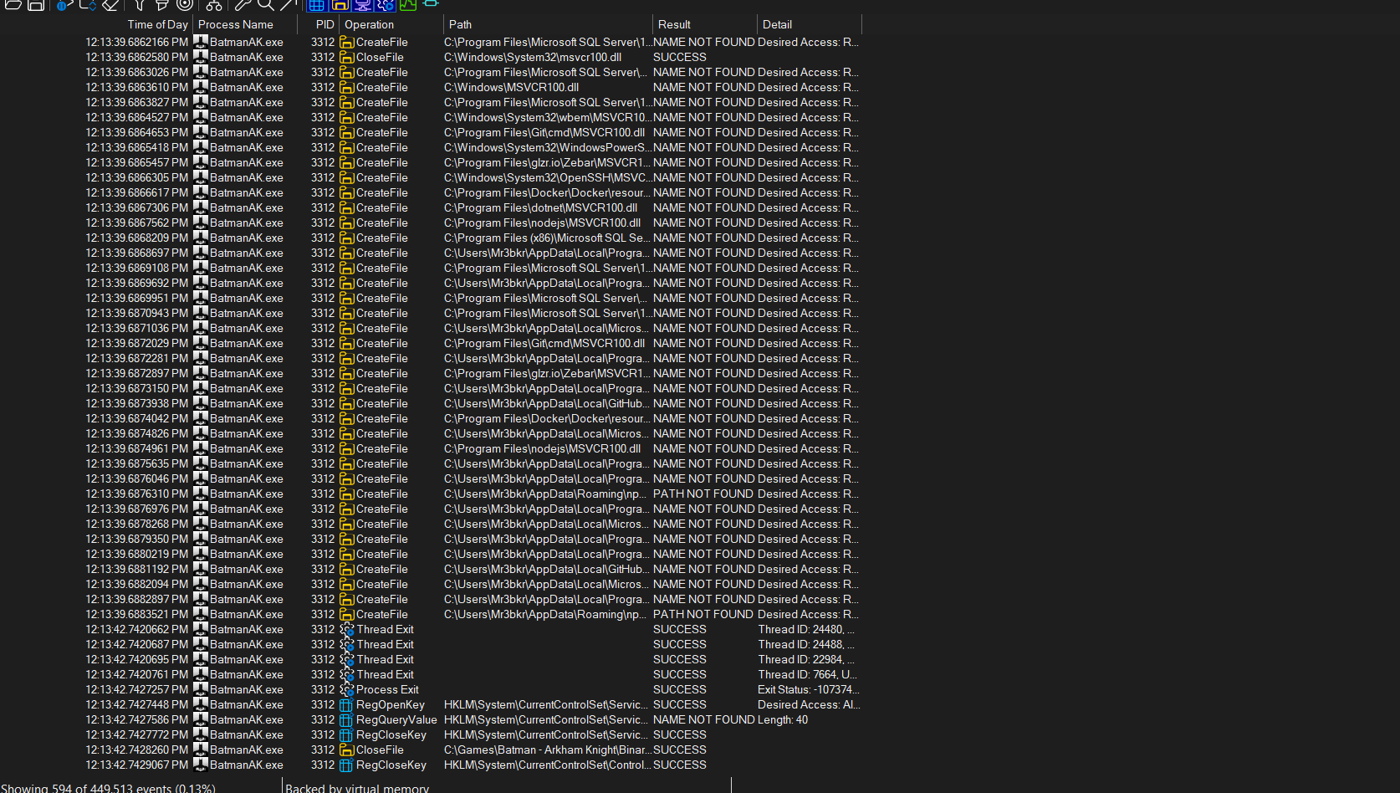
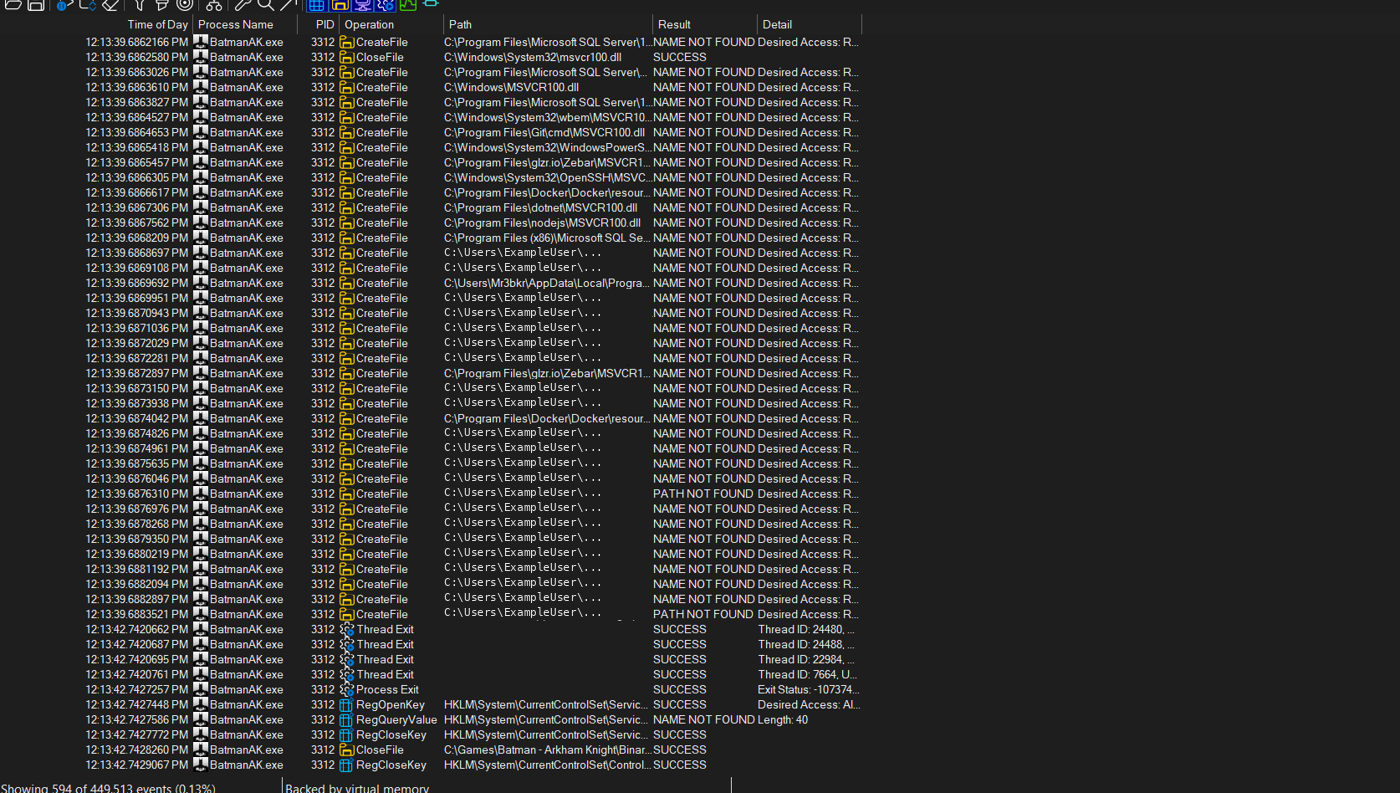
Add files via upload

Changed region(s): [[0.3071, 0.3026, 0.4607, 0.7869]]

diff --git a/README.md b/README.md
@@ -28,6 +28,16 @@
 > [!IMPORTANT]
 > This is a **diagnostic toolkit**, not a one-click fixer. Errors can have multiple causes; no repair is guaranteed. Never download random DLLs or replace shared Windows files without verification.
 
+## 🖥 Windows GUI Launcher
+
+Double-click **`Launch-Troubleshooter.bat`** to open the desktop graphical interface (Windows 10/11, Windows PowerShell 5.1). The BAT launches `scripts/Troubleshooter-GUI.ps1`.
+
+- **Official downloads:** Microsoft Visual C++, DirectX, Sysinternals Process Monitor, Dependencies, and 7-Zip links.
+- **Read-only diagnostics:** inspect Visual C++ 2010 DLL architecture and Windows version; copy the output.
+- **Local guides:** open the bundled diagnostic, error-code, extraction, rollback and case-study documents.
+
+**Safety:** no silent downloads, installs, registry edits, or DLL replacement. Keep the BAT file together with the `scripts` and `docs` folders. The GUI has not yet been visually tested on Windows, so a genuine screenshot is not available yet.
+
 ## 🚀 Quick Start
 
 **1. Capture the error** — note the exact message, app, Windows version, and when it happens.
@@ -116,3 +126,6 @@ Found another reproducible startup issue? Open an issue using the [bug report te
 MIT-licensed original documentation and scripts · Unofficial community project · Not affiliated with Microsoft or game publishers.
 
 </div>
+
+
+> **Screenshot privacy:** User-profile paths in the Process Monitor screenshot have been replaced with generic example paths. The screenshot is illustrative; refer to your own trace for exact directories.
